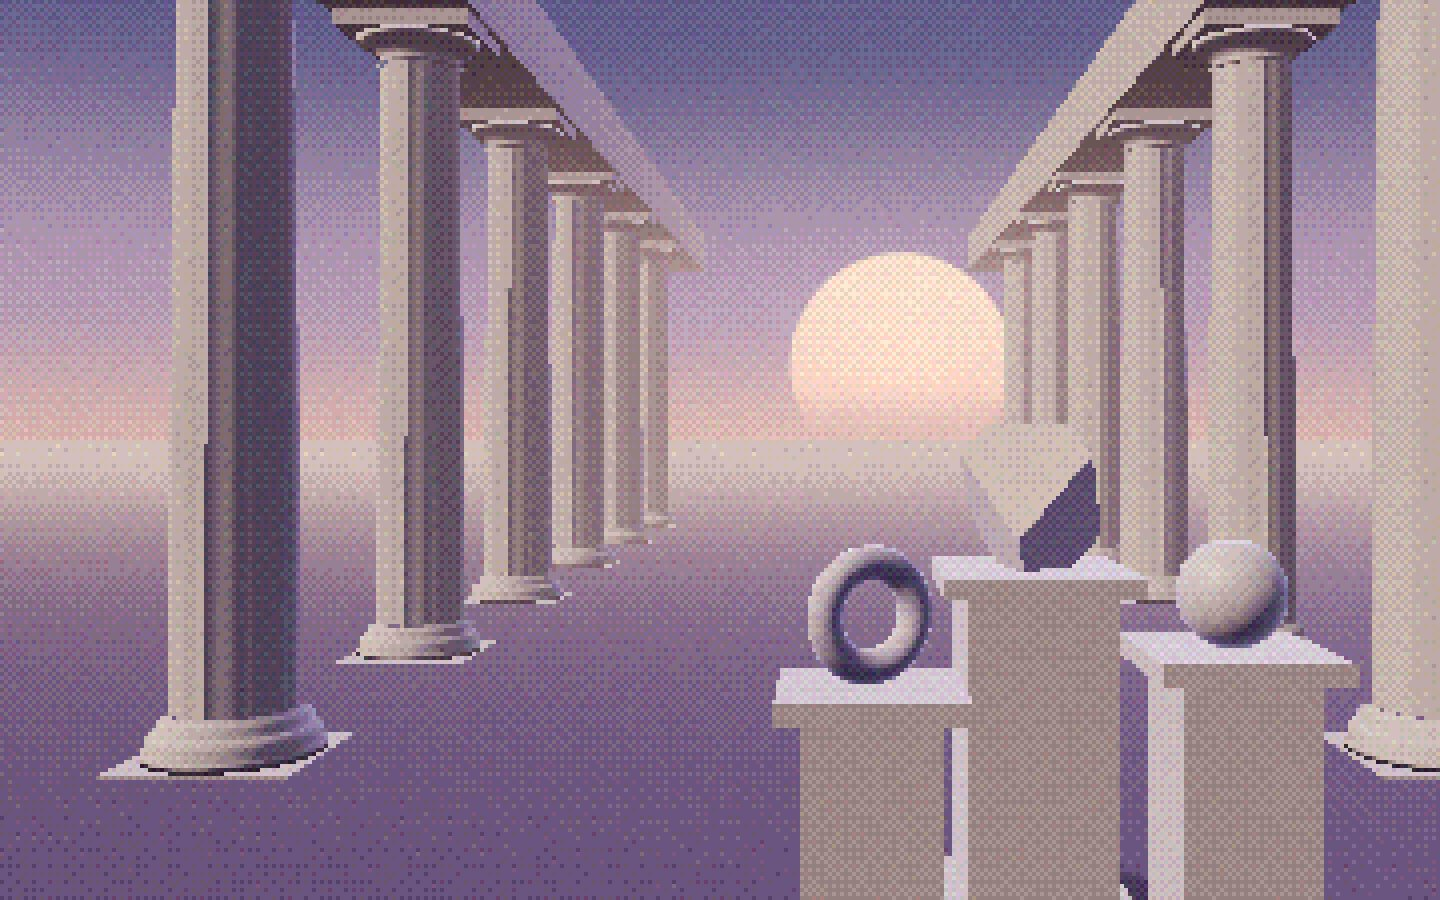
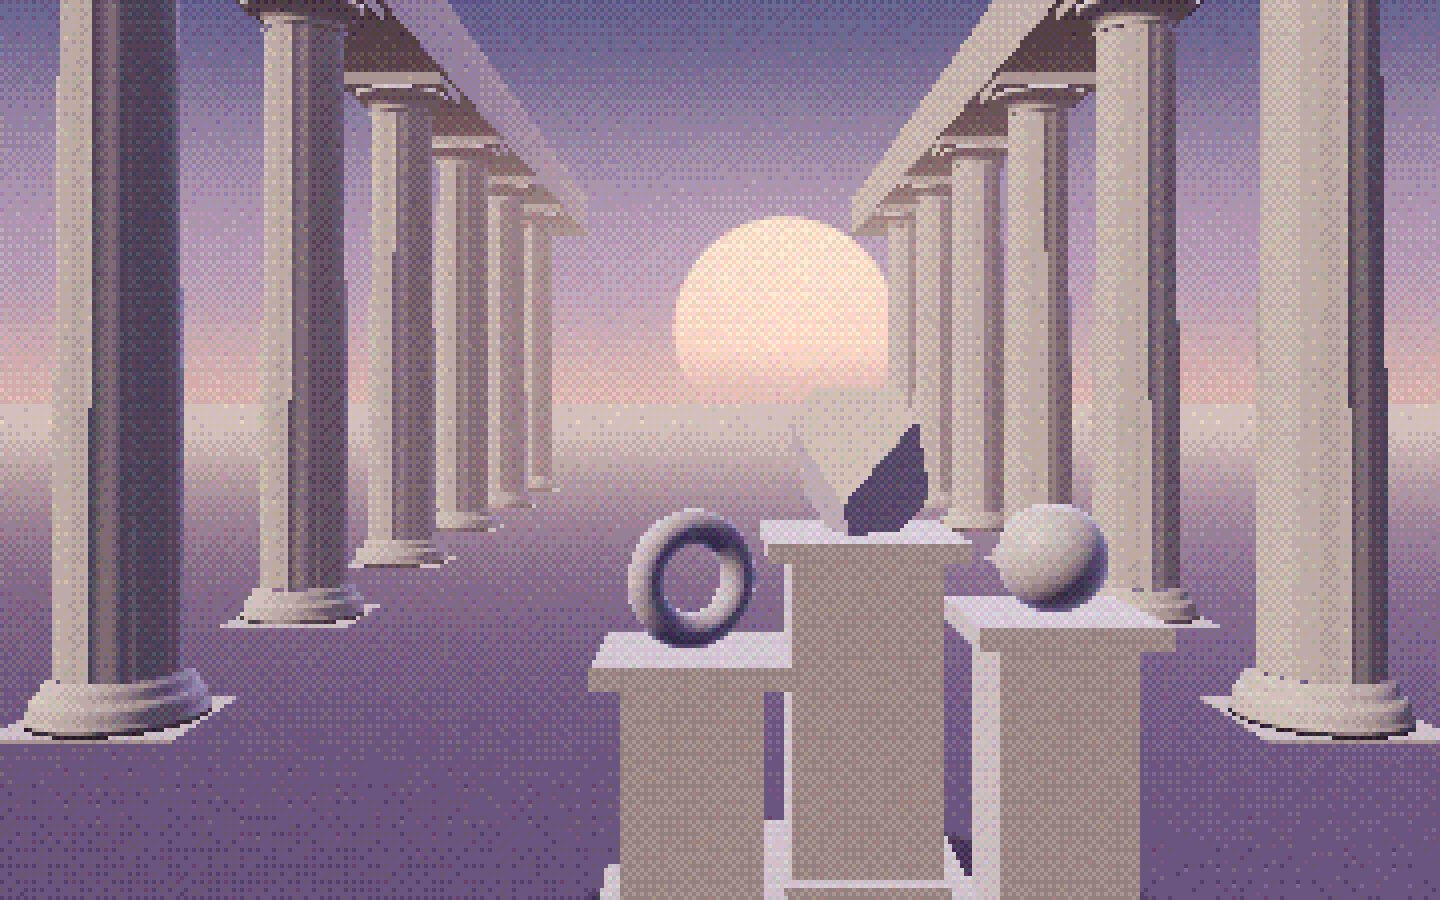
Dev panel, scene tuning API, centred sculpture, plinth controls, re-rendered posters (D1)
Claude-Session: https://claude.ai/code/session_01Kk9Ps4EAPUfB7J83BRscWT

diff --git a/docs/redesign/liminal/scene/sanctuaryScene.js b/docs/redesign/liminal/scene/sanctuaryScene.js
@@ -866,14 +866,18 @@ export async function createSanctuaryScene(canvas, {
       view.cam.set(0, k.focusY + 0.1, dist);
       view.offX = 0; view.offY = 0.16;
     } else if (f === 'background') {
+      // behind a form on the left (login, signup, session end): the object right of centre, clear of the panel
+      // (62% of the width at 16:10, easing to 67% at 4:3); centred in portrait
       view.fov = portrait ? 52 : 36;
-      base.set(0, 0, 0);
+      const share = portrait ? 0.5 : 0.62 + 0.05 * clamp01((1.6 - aspect) / 0.27);
+      base.set((2 * share - 1) * (4.6 - 0.36) * Math.tan(view.fov * DEG / 2) * aspect, 0, 0);
       view.cam.set(0, k.focusY + 0.15, portrait ? 4.2 : 4.6);
       view.offX = 0; view.offY = portrait ? 0.3 : 0.12;
     } else if (portrait) {
-      // portrait desktop screens (3D needs a 1024 px wide, hovering pointer): right of centre, clear of the text
+      // portrait desktop screens (1000 px wide or more): right of centre, clear of the text column.
+      // Narrower (the phone poster, text at the bottom): centred.
       view.fov = 50;
-      base.set((2 * 0.68 - 1) * (4.0 - 0.3 - 0.36) * Math.tan(view.fov * DEG / 2) * aspect, 0, 0.3);
+      base.set((2 * (size.w >= 1000 ? 0.68 : 0.5) - 1) * (4.0 - 0.3 - 0.36) * Math.tan(view.fov * DEG / 2) * aspect, 0, 0.3);
       view.cam.set(0, k.focusY + 0.3, k.name === 'estudio' ? 4.6 : 4.0);
       view.offX = 0; view.offY = 0.42; // the object sits in the upper third, above a bottom text panel
     } else {

diff --git a/frontend/src/components/sanctuary/scene/sanctuaryScene.js b/frontend/src/components/sanctuary/scene/sanctuaryScene.js
@@ -866,14 +866,18 @@ export async function createSanctuaryScene(canvas, {
       view.cam.set(0, k.focusY + 0.1, dist);
       view.offX = 0; view.offY = 0.16;
     } else if (f === 'background') {
+      // behind a form on the left (login, signup, session end): the object right of centre, clear of the panel
+      // (62% of the width at 16:10, easing to 67% at 4:3); centred in portrait
       view.fov = portrait ? 52 : 36;
-      base.set(0, 0, 0);
+      const share = portrait ? 0.5 : 0.62 + 0.05 * clamp01((1.6 - aspect) / 0.27);
+      base.set((2 * share - 1) * (4.6 - 0.36) * Math.tan(view.fov * DEG / 2) * aspect, 0, 0);
       view.cam.set(0, k.focusY + 0.15, portrait ? 4.2 : 4.6);
       view.offX = 0; view.offY = portrait ? 0.3 : 0.12;
     } else if (portrait) {
-      // portrait desktop screens (3D needs a 1024 px wide, hovering pointer): right of centre, clear of the text
+      // portrait desktop screens (1000 px wide or more): right of centre, clear of the text column.
+      // Narrower (the phone poster, text at the bottom): centred.
       view.fov = 50;
-      base.set((2 * 0.68 - 1) * (4.0 - 0.3 - 0.36) * Math.tan(view.fov * DEG / 2) * aspect, 0, 0.3);
+      base.set((2 * (size.w >= 1000 ? 0.68 : 0.5) - 1) * (4.0 - 0.3 - 0.36) * Math.tan(view.fov * DEG / 2) * aspect, 0, 0.3);
       view.cam.set(0, k.focusY + 0.3, k.name === 'estudio' ? 4.6 : 4.0);
       view.offX = 0; view.offY = 0.42; // the object sits in the upper third, above a bottom text panel
     } else {

diff --git a/frontend/src/views/WelcomeView.vue b/frontend/src/views/WelcomeView.vue
@@ -36,7 +36,7 @@ function onSculpture(s: number) {
 // corner sits in each file, in the poster's own CSS px (measured with the scene's anchor('plinth') when rendered).
 const POSTER_SEED = 427
 const POSTER = {
-  landscape: { w: 1440, h: 900, x: 1220, y: 664 },
+  landscape: { w: 1440, h: 900, x: 1039, y: 628 },
   portrait: { w: 390, h: 844, x: 315, y: 276 },
 }
 const live = computed(() => Boolean(scene.value?.live))
